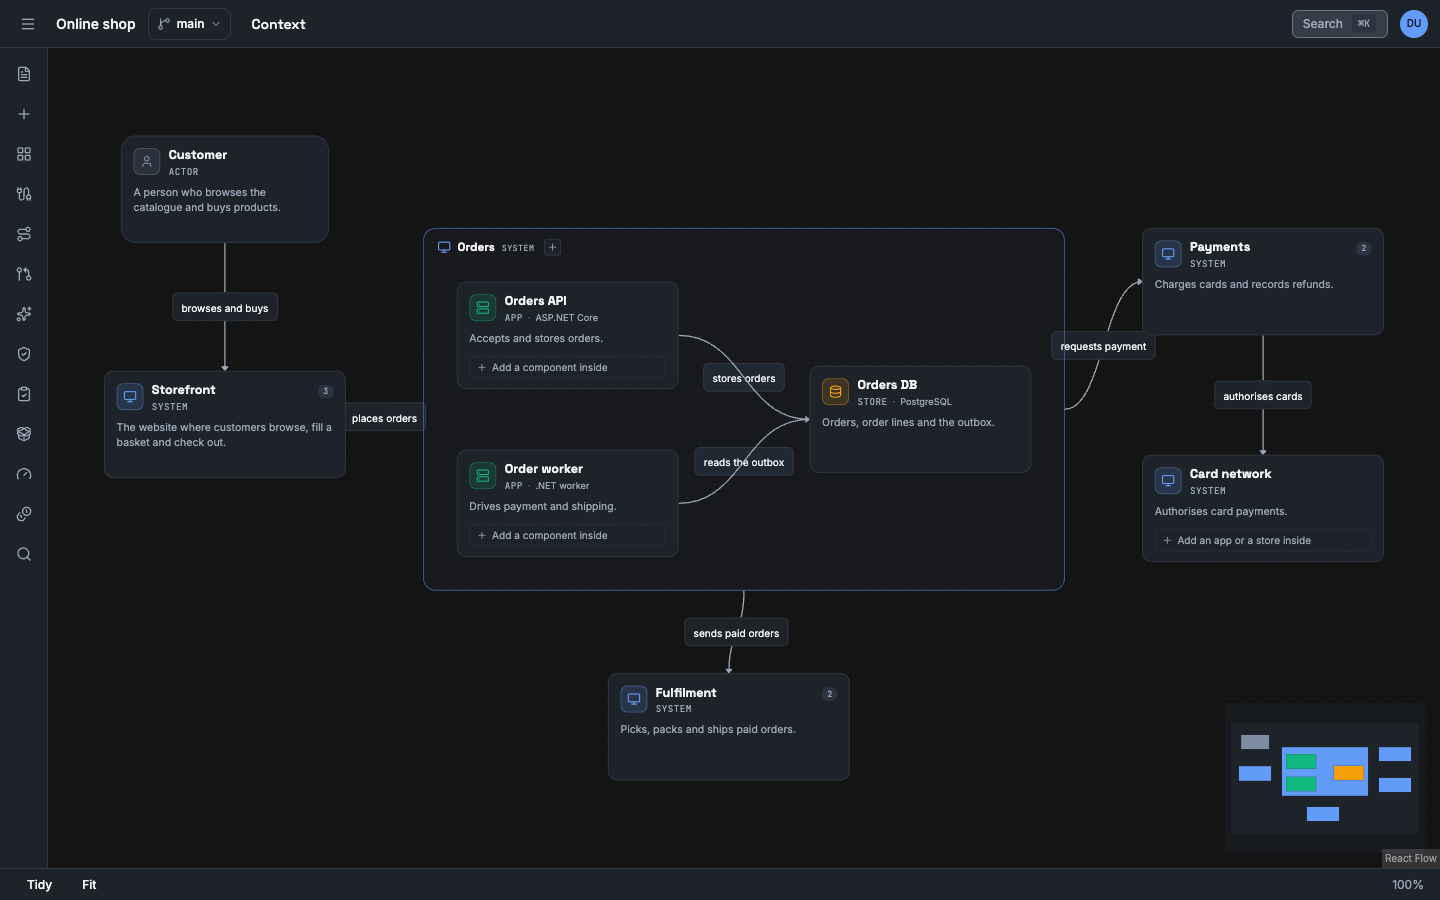
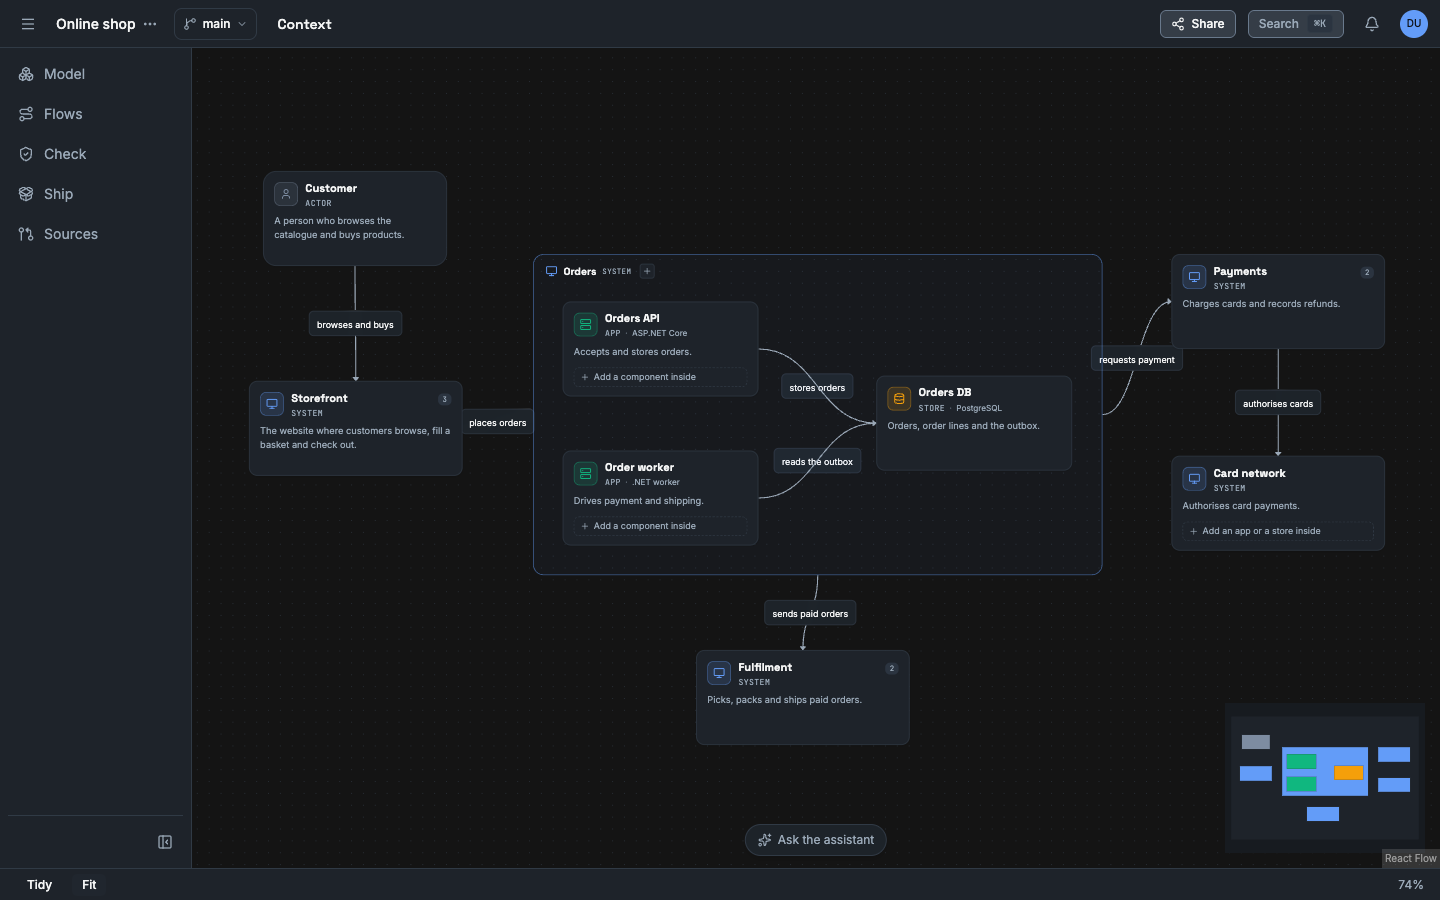
vellum docs: screenshots for the five-area sidebar, ghost layer and Needs you

diff --git a/site/src/content/docs/tutorials/first-model-and-trace.md b/site/src/content/docs/tutorials/first-model-and-trace.md
@@ -19,14 +19,14 @@ You need no AI provider and no repository.
 
 Vellum opens the project. The model has no element, so the project shows three starts: **Choose folder / GitHub URL**, **Describe it / Type it** and **Open the sample**. Below them is the link **Add a system**. This tutorial draws the model by hand. [Start a project](/how-to/start-a-project/) explains the three starts.
 
-![The empty project. The heading reads Start your diagram. Three cards follow: Choose folder / GitHub URL, with the button Choose folder and a field for a GitHub address; Describe it / Type it, with a text box and the buttons Describe it and Type it; Open the sample, with the button Open the sample. Below the cards is the line Or draw it yourself: Add a system.](../../../assets/screenshots/tutorial-empty-project.png)
+![The empty project. The sidebar shows the areas Model, Flows and Sources. The heading reads Start your diagram. Three cards follow: Choose folder / GitHub URL, with the button Choose folder and a field for a GitHub address; Describe it / Type it, with a text box and the buttons Describe it and Type it; Open the sample, with the button Open the sample. Below the cards is the line Or draw it yourself: Add a system. The button Ask the assistant is at the bottom of the canvas.](../../../assets/screenshots/tutorial-empty-project.png)
 
 ## Add the elements
 
 1. Select **Add a system**. The dialog **Add Element** opens.
 2. In **Name**, give `Shop`. Select **Add**.
 
-   ![The dialog Add Element over the empty canvas. Inside is Top level, Kind is System and Name holds Shop. The button Add is at the bottom right.](../../../assets/screenshots/tutorial-add-element.png)
+   ![The dialog Add Element over the empty project. Inside is Top level, Kind is System and Name holds Shop. The button Add is at the bottom right.](../../../assets/screenshots/tutorial-add-element.png)
 
 3. Press `N`. The dialog opens again.
 4. Select the kind **Actor**. Give the name `Customer`. Select **Add**.
@@ -34,7 +34,7 @@ Vellum opens the project. The model has no element, so the project shows three s
 6. Press `N`. Keep the kind **System**. Give the name `Warehouse`. Select **Add**.
 7. Select **Tidy** at the bottom of the screen. Vellum arranges the four elements.
 
-![The canvas after Tidy. The actor Customer and the systems Billing, Shop and Warehouse each have a card with the name and the kind. Each system card has the button Add an app or a store inside.](../../../assets/screenshots/tutorial-four-elements.png)
+![The canvas after Tidy. The actor Customer and the systems Billing, Shop and Warehouse each have a card with the name and the kind, in one column. Each system card has the button Add an app or a store inside. The sidebar now shows the areas Model, Flows, Check, Ship and Sources.](../../../assets/screenshots/tutorial-four-elements.png)
 
 You now have one actor and three systems. Each has the label `declared`, because you state it.
 
@@ -46,7 +46,7 @@ The positions on the canvas are layout. They are not part of the model, and they
 2. Drag from the handle on the right side of `Customer` to the handle at the top of `Shop`. A line starts at a handle on the left or the right side, and ends at a handle at the top or the bottom.
 3. Select the new line. In the **Relationship** panel, give the **Label** `places orders`.
 
-![The canvas with a line from Customer to Shop. The label of the line reads places orders. The Relationship panel at the right shows From Customer, To Shop, the Label places orders, an empty Technology field and the Line Style Curved (Bezier).](../../../assets/screenshots/tutorial-relationship.png)
+![The canvas with a line from Customer to Shop. The label of the line reads places orders. The Relationship panel at the right shows From Customer, To Shop, the Label places orders, an empty Technology field, the Kind Structural, the Line Style Curved (Bezier), Source side and Target side Auto, and the truth label Declared.](../../../assets/screenshots/tutorial-relationship.png)
 
 A relationship states structure: the customer uses the shop. It does not state behaviour. The line alone plays nothing. The contracts and the scenario of the next sections state the behaviour.
 
@@ -93,7 +93,7 @@ The rest of this tutorial uses `Shop`, not the app or the store inside it.
 
 6. Select **Add** again. Give the **Channel** `order-events` and the **Consumer** `Warehouse`. Keep **Attempts** at `1`. Keep **Dead-letter channel** at **None: a failed message is lost**. Select **Add subscription**.
 
-The flyout now lists one operation, two channels and two subscriptions: **Billing on order-events** and **Warehouse on order-events**.
+The **Contracts** tab now lists one operation, two channels and two subscriptions: **Billing on order-events** and **Warehouse on order-events**.
 
 ## Add the message
 
@@ -109,9 +109,9 @@ A publish step names a message.
    | **Schema** | **None** |
    | **Consumers** | `Billing` and `Warehouse` |
 
-The flyout lists the message as **Shop → Billing, Warehouse · no schema**. The message has the label `declared`.
+The tab lists the message as **Shop → Billing, Warehouse · no schema**. The message has the label `declared`.
 
-![The Contracts flyout at the left of the canvas. Operations lists POST /orders: Shop, http, 1000 ms, 1 attempt, no schema. Channels lists order-events (topic) and order-events.dlq (queue). Subscriptions lists Warehouse on order-events with 1 attempt and no DLQ, and Billing on order-events with 2 attempts and the DLQ order-events.dlq. Messages lists OrderCreated: Shop to Billing and Warehouse, no schema.](../../../assets/screenshots/tutorial-contracts.png)
+![The Contracts tab of the Model area, next to the tabs Catalog, Create and Files, at the left of the canvas. Operations lists POST /orders: Shop, http, 1000 ms, 1 attempt, no schema. Channels lists order-events (topic) and order-events.dlq (queue). Subscriptions lists Warehouse on order-events with 1 attempt and no DLQ, and Billing on order-events with 2 attempts and the DLQ order-events.dlq. Messages lists OrderCreated: Shop to Billing and Warehouse, no schema.](../../../assets/screenshots/tutorial-contracts.png)
 
 ## Write the scenario
 

diff --git a/site/src/content/docs/how-to/estimate-costs.md b/site/src/content/docs/how-to/estimate-costs.md
@@ -101,9 +101,9 @@ When you delete an assumption, a usage line that names it stays. The estimate li
 
 ## Read the estimate
 
-The flyout shows one total for each currency. Vellum converts no currency.
+The **Costs** tab shows one total for each currency. Vellum converts no currency.
 
-![The Costs flyout of the project Online shop on the branch main. The estimate for one month is 894.65 USD, known lines only, as of 2026-10-14. A line in orange says that 1 line is unknown and in no total. Below Unknown 1, the resource Shipping worker has No price. Below Resources, each resource is in a group with the name of its element: Storefront API, Instances, 246.74 USD; Catalogue DB, Server, 129.94 USD; Orders API, Instances, 246.74 USD; Order worker, Instance, 123.37 USD and Messages, 3.20 USD.](../../../assets/screenshots/costs-flyout-estimate.png)
+![The Costs tab of the Check area in the project Online shop, on the branch main. The estimate for one month is 894.65 USD, known lines only, as of 2026-10-17. A line in orange says that 1 line is unknown and in no total. Below Unknown 1, the resource Instance has No price. Below Resources, each resource is in a group with the name of its element: Shipping worker, Instance, unknown; Orders DB, Server, 129.94 USD and Storage, 14.72 USD; Storefront API, Instances, 246.74 USD; Orders API, Instances, 246.74 USD. The canvas is at the right of the panel.](../../../assets/screenshots/costs-estimate.png)
 
 - The total holds known lines only.
 - **Unknown** lists each line that has no amount, with the reason.
@@ -141,7 +141,7 @@ A branch holds 100 saved estimates at most. Select **Delete** on a saved estimat
 
 ## Compare two variants
 
-1. In the **Costs** flyout, select **New variant from main**. Give the variant a name and select **Create**. The cost sheet of the variant starts as a copy of the sheet that you see. Vellum makes the variant and the copy together. If one of them fails, Vellum makes neither.
+1. In the **Costs** tab, select **New variant from main**. Give the variant a name and select **Create**. The cost sheet of the variant starts as a copy of the sheet that you see. Vellum makes the variant and the copy together. If one of them fails, Vellum makes neither.
 2. Change the resources of the variant.
 3. Select **Lines, saved estimates and compare**, then **Compare**.
 4. Select the two branches in **Left** and **Right**.
@@ -154,7 +154,7 @@ An empty cost sheet is not a cost of zero. When one side has no lines, Vellum sh
 
 ## Use a cost sheet in a draft
 
-A draft has its own cost sheet. The sheet is empty at first. Open the **Costs** flyout while the draft is active, or select the draft in **Branch**. Then select **Copy the sheet of main** to start the sheet. The copy leaves out a resource when its element is not in the model of the draft.
+A draft has its own cost sheet. The sheet is empty at first. Open the **Costs** tab while the draft is active, or select the draft in **Branch**. Then select **Copy the sheet of main** to start the sheet. The copy leaves out a resource when its element is not in the model of the draft.
 
 When you merge the draft, Vellum merges its cost sheet into the sheet of main in the same step:
 

diff --git a/site/src/content/docs/how-to/trace-a-scenario.md b/site/src/content/docs/how-to/trace-a-scenario.md
@@ -40,7 +40,7 @@ The scenario editor builds the scenario from the parts of the model. You select 
 6. Add the next steps in the order that they occur. To change the order, use the up and down arrows of a step.
 7. Select **Save and play**.
 
-![The scenario editor. The first step is a call with the mark Trigger: the caller Customer calls the operation POST /orders. Below the call fields are the request and the response as JSON, the timeout and the retries of the operation, and the two step lists of the call. The second step publishes OrderCreated to order-events.](../../../assets/screenshots/scenario-editor-steps.png)
+![The scenario editor. The first step is a call with the mark Trigger: the caller Customer calls the operation POST /orders. Below the call fields are the request and the response as JSON, the timeout and the retries of the operation, and the two step lists of the call. The second step publishes OrderCreated to order-events. Each step has a comment button next to its arrows.](../../../assets/screenshots/scenario-editor-steps.png)
 
 ### Step types
 
@@ -112,9 +112,9 @@ If the scenario has an invalid reference or payload, the dock says "This scenari
 
 Add the failure in **Failures to inject** of the scenario editor. See [Failures to inject](#failures-to-inject). Then select **Save and play**.
 
-![The lower part of the scenario editor. Failures to inject has one failure: the target Billing on order-events, the kind Error, and Fails set to every attempt. Expected results has a step outcome (place ends Succeeded) and an event count (exactly 2 deliveries for any part).](../../../assets/screenshots/scenario-editor-failure.png)
+![The lower part of the scenario editor. Consumers lists Warehouse on order-events and Billing on order-events. Failures to inject has one failure: the target Billing on order-events, the kind Error, and Fails set to every attempt. Expected results has a step outcome (place ends Succeeded) and an event count (exactly 2 deliveries for any part).](../../../assets/screenshots/scenario-editor-failure.png)
 
-![The trace dock at event 5 of 7 of a scenario with an error injected on Billing. The canvas is inside the system orders. Event reads: Billing fails to handle the message, the consumer did not acknowledge the message. Payload reads: None. The dock says 1 of 2 expectations fail. The canvas rings Orders.Api and Billing in red, with the edge message · not handled between them. On the timeline only the event in focus and the failures have colour.](../../../assets/screenshots/trace-dock-playback.png)
+![The trace dock at event 3 of 4 of a scenario with an error injected on Billing. The canvas is inside the system orders. Event reads: Billing fails to handle the message, the consumer did not acknowledge the message. Payload reads: None. The dock says 1 of 2 expectations fail. The canvas rings Orders.Api and Billing in red, with the edge message · not handled between them. On the timeline only the event in focus and the failures have colour.](../../../assets/screenshots/trace-dock-playback.png)
 
 ## Limits
 

diff --git a/site/src/content/docs/how-to/design-with-the-assistant.md b/site/src/content/docs/how-to/design-with-the-assistant.md
@@ -52,7 +52,7 @@ A scenario that came from a proposal records that origin.
 
 The proposal opens on the canvas as a ghost layer. Each proposed element is a dashed card, and each proposed relationship is a dashed line. Vellum places them with the auto layout of **Tidy**, beside the cards of the current view. A proposed element inside a parent shows inside that parent when the view shows the parent open. The real cards do not move.
 
-![The canvas with the ghost layer open. The bar at the top says Proposed additions, 22 pending, and has the buttons Accept all (22), Reject all and Close. Below the summary it says that 4 items are not drawn on this level. The real cards Customer, Orders System, Payments System and Web Application are solid. The proposed systems Delivery System and Alerts System are dashed frames around dashed cards such as Courier, Delivery API and Alert Log. Dashed lines join them to the real cards.](../../../assets/screenshots/assistant-ghost-layer.png)
+![The canvas with the ghost layer open. The bar at the top says Proposed additions, 22 pending, and has the buttons Accept all (22), Reject all and Close. Below the summary it says that 4 items are not drawn on this level. The real cards Customer, Notifications System, Orders System, Payments System and Web Application are solid. The proposed actor Ops Agent is a dashed card. The proposed systems Delivery System and Alerts System are dashed frames around dashed cards such as Courier, Delivery API and Alert Log. Each dashed card and line shows proposed, its alias and its confidence. Dashed lines join them to the real cards.](../../../assets/screenshots/assistant-ghost-layer.png)
 
 Decide on the ghost layer:
 
@@ -81,7 +81,7 @@ Additions are decided item by item. Each item records who accepted or rejected i
 
 Each list shows 20 proposals of each kind. Select **Show more** for older ones.
 
-![The Assistant tab of the Review panel. Below Stored answers, Your proposals says that no proposal waits for you. History lists one proposal: model, Add notifications and an audit trail, 1 accepted, 1 rejected, decided by Dev User on 14/10/2026 at 19:26:09.](../../../assets/screenshots/review-assistant-proposals.png)
+![The inner tab Assistant of the Review tab in the Check area. Below Stored answers, Your proposals says that no proposal waits for you. History lists one proposal: model, Notifications and an audit trail for orders, 1 accepted, 1 rejected, decided by Dev User on 17/10/2026 at 19:11:23, submitted by an agent.](../../../assets/screenshots/review-assistant-proposals.png)
 
 ## Ask for an explanation
 

diff --git a/site/src/content/docs/how-to/write-project-docs.md b/site/src/content/docs/how-to/write-project-docs.md
@@ -58,7 +58,7 @@ A space is a folder of documents. A space holds no other space. You need the edi
 
 When you delete a space, its documents move to the top level. Vellum deletes no document with the space.
 
-![The Files panel. It lists the diagrams Checkout flow and Default, then the space Design with one document, Orders design, then the documents SDD and Template check at the top level. The button New space is at the top right.](../../../assets/screenshots/files-flyout-spaces.png)
+![The Files tab of the Model area, next to the tabs Catalog, Contracts and Create. It lists the diagrams Checkout flow and Default, then the space Design with one document, Orders design, then the documents SDD and Template check at the top level. The button New space is at the top right. Below the list, Model document has the buttons Export JSON, Export YAML, Export Structurizr DSL and Import a document.](../../../assets/screenshots/files-spaces.png)
 
 ## Edit the text
 
@@ -69,7 +69,7 @@ The editor has two modes. **Edit** shows the Markdown source. **Read** shows the
 3. Select **Read** to see the result.
 4. Select **Edit** to go back to the source.
 
-![The document Online shop design in the mode Read. It has the headings Overview, Orders and Open questions. A card links to the diagram Default. In the text, Orders API, Orders DB and Order worker show as element links with a coloured dot. Open questions is a task list with one open item and one done item. The button Edit is at the top right.](../../../assets/screenshots/project-doc-read.png)
+![The document Online shop design in the mode Read, in place of the canvas. The sidebar at the left shows Model, Flows, Check, Ship and Sources. The document has the headings Overview, Orders and Open questions. A card links to the diagram Default. In the text, Orders API, Orders DB and Order worker show as element links with a coloured dot. Open questions is a task list with one open item and one done item. The button Edit is at the top right.](../../../assets/screenshots/project-doc-read.png)
 
 Vellum saves the document 300 ms after your last change. There is no save button.
 

diff --git a/site/src/content/docs/how-to/check-change-impact.md b/site/src/content/docs/how-to/check-change-impact.md
@@ -221,7 +221,7 @@ Pull request #1 merges the branch `remove-outbox` into `main`. The branch delete
 2. Select **Impact**. **Changed in the source** has the line **Removed Transactional outbox** with the label **Definite** and the source lines of `main` where the registration was.
 3. Read **Affected flows**. In the flow **Place an order**, the step that publishes `OrderCreated` has the label **Definite**: it names the message whose schema changed. The steps that call `POST /orders` and write the order have the label **Possible**: they run in `orders-api`, the service of the outbox.
 
-   ![The dialog Impact of pull request #1 on acme/orders. The header gives #1 Remove the outbox, open, remove-outbox into main. Changed in the source has three entries with the label Definite. Affected flows has Place an order with three steps: place and save-order with the label Possible, publish-order-created with the label Definite through the changed schema OrderCreated at asyncapi.yaml line 39. Affected promises is empty.](../../../assets/screenshots/impact-pull-request-steps.png)
+   ![The dialog Impact of pull request #1 on acme/orders, scrolled past the Gate box. The header gives #1 Remove the outbox, open, remove-outbox into main. Changed in the source has three entries with the label Definite. Affected flows has Place an order with three steps: place and save-order with the label Possible, publish-order-created with the label Definite through the changed schema OrderCreated at asyncapi.yaml line 39. Affected promises is empty.](../../../assets/screenshots/impact-pull-request-steps.png)
 
 4. Select **Show on canvas** and open the system `orders`. The line from `Orders.Api` to `Billing` is solid, with the label **3. OrderCreated · Definite**. The line from `Orders.Api` to `postgres` is dashed, with the label **2. postgres · orders · Possible**.
 

diff --git a/site/src/content/docs/how-to/model-a-system.md b/site/src/content/docs/how-to/model-a-system.md
@@ -198,7 +198,7 @@ A person changes a label in two ways only. No control sets **Measured** or **Obs
 1. Select the element or the relationship. In the **Details** tab, find **Truth**.
 2. Select **Accept as declared** or **Mark as unknown**.
 
-![The detail panel of the system Payments System after Accept as declared. Below Truth it shows the label Declared and the button Mark as unknown. Below the label are the source github.com/acme/shop@4f2a91c:payments/Client.cs:12-40, the source revision 4f2a91c, the confidence 70%, and Accepted by Dev User on 14/10/2026, 19:37:14 at model version 14.](../../../assets/screenshots/detail-panel-truth.png)
+![The detail panel of the system Payments System after Accept as declared. Below Truth it shows the label Declared and the button Mark as unknown. Below the label are the source github.com/acme/shop@4f2a91c:payments/Client.cs:12-40, the source revision 4f2a91c, the confidence 70%, and Accepted by Dev User on 17/10/2026, 19:12:31 at model version 16. The canvas at the left shows the systems of Sample Architecture in one column.](../../../assets/screenshots/detail-panel-truth.png)
 
 You can also right-click the element or the relationship on the canvas and select the action. For an operation, a channel, a subscription or a binding, use the action on its row in **Contracts**.
 

diff --git a/site/src/content/docs/how-to/review-a-design.md b/site/src/content/docs/how-to/review-a-design.md
@@ -15,7 +15,7 @@ A finding says what the declared model shows. It is not evidence about a running
 2. Read the summary. It says how many findings block Build Ready.
 3. Read the list. The list shows concerns and unknowns first.
 
-![The Review flyout on the tab Findings. The summary says that 1 finding blocks Build Ready and gives the model version, the rule set and the hash of the findings. The group Blocking shows CON-001 for the operation POST /orders with the button Settle with a decision. The group Warning starts below it. The canvas at the right shows Customer and orders clear of the flyout.](../../../assets/screenshots/review-findings.png)
+![The Review tab of the Check area, next to the tabs Promises, Stress and Costs, on the inner tab Findings. The summary says that 2 findings block Build Ready and gives the model version, the rule set and the hash of the findings. The group Blocking shows CON-001 for the operations Relay outbox and POST /orders, each with the button Settle with a decision. The canvas at the right shows the frame of the system orders clear of the panel.](../../../assets/screenshots/review-findings.png)
 
 Each finding has one of four results:
 

diff --git a/site/src/content/docs/tutorials/promise-loop.md b/site/src/content/docs/tutorials/promise-loop.md
@@ -408,7 +408,7 @@ In the app:
 3. Select **Preview the brief**. The dialog says **This scope is not build ready** and lists each blocker. Below, it shows the text of the brief.
 4. Select **Copy**, or select **Download**.
 
-![The Build flyout. The first box says Not build ready: 7 blockers and gives the model version and the bundle hash. Below Brief for an agent, the scope A change is selected with the scan of remove-outbox. The list Blockers starts below the button Preview the brief.](../../../assets/screenshots/build-flyout-brief.png)
+![The Build tab of the Ship area, next to the tab Share links. The first box says Not build ready: 9 blockers and gives the model version and the bundle hash. Below Brief for an agent, the scope A change is selected with the scan of remove-outbox. The list Blockers starts below the button Preview the brief. Its first entries are promise-gap blockers of ORD-014.](../../../assets/screenshots/build-brief.png)
 
 The brief of a change has one more section, **8. Change under review**. It holds the impact report of the scan. The scope **A promise** gives the brief of the command below.
 

diff --git a/site/src/content/docs/tutorials/import-and-review.md b/site/src/content/docs/tutorials/import-and-review.md
@@ -84,7 +84,7 @@ When the scan completes, Vellum adds the 21 facts that it found to the model. Th
 2. Right-click `orders` and select **Drill into**. The canvas shows `Orders.Api`, `Billing`, `inventory-worker` and `postgres`.
 3. Select **Model** in the sidebar, then the **Contracts** tab. **Operations**, **Channels** and **Subscriptions** list the rest of the 21 facts.
 
-![The canvas at the level Context, orders. A frame with the name orders holds the apps Billing (dotnet), inventory-worker (go) and Orders.Api (dotnet) and the store postgres. Each card shows its kind and its technology. No line connects them.](../../../assets/screenshots/canvas-orders-system.png)
+![The canvas at the level Context, orders. A frame with the name orders holds, in one column, the apps Billing (dotnet), inventory-worker (go) and Orders.Api (dotnet) and the store postgres. Each card shows its kind and its technology. No line connects them.](../../../assets/screenshots/canvas-orders-system.png)
 
 | Kind | Facts |
 |---|---|

diff --git a/site/src/content/docs/troubleshooting/stale-results-and-build-ready.md b/site/src/content/docs/troubleshooting/stale-results-and-build-ready.md
@@ -148,7 +148,7 @@ If a pinned version is no longer stored, the status is `409` and the type is `pi
 
 ## The build shows Not build ready
 
-**Symptom:** The **Build** flyout shows **Not build ready: <n> blockers** and the list **Blockers**. In the manifest, `buildReady` is `false`.
+**Symptom:** The **Build** tab shows **Not build ready: <n> blockers** and the list **Blockers**. In the manifest, `buildReady` is `false`.
 
 A blocker prevents Build Ready. It does not prevent an export. The SDD lists each blocker.
 
